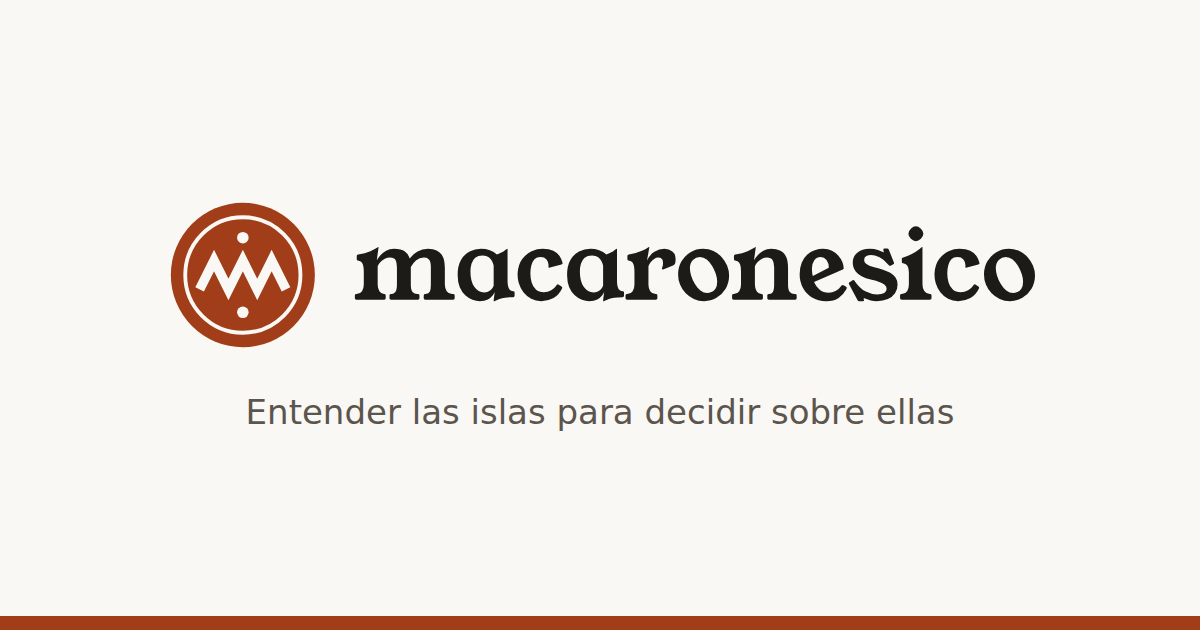
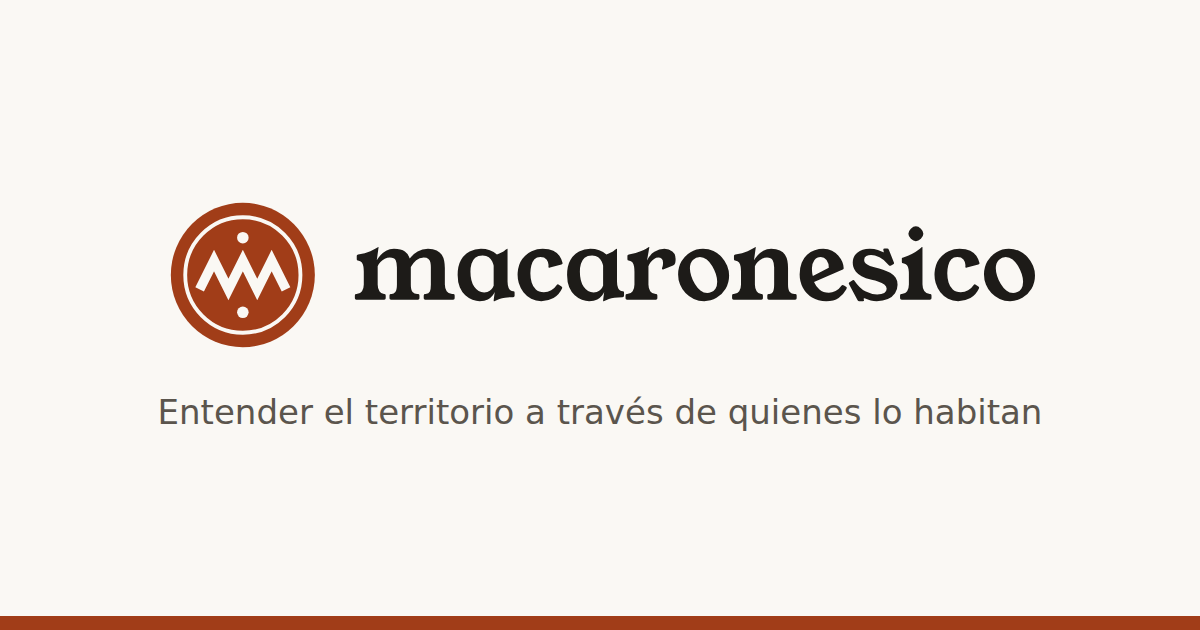
Lema: «Entender el territorio a través de quienes lo habitan»
Actualiza lema, descripción, imagen social y guía de identidad.

Claude-Session: https://claude.ai/code/session_01Ggf64gNmXtFu778w1fZrKY

Changed region(s): [[0.1233, 0.6333, 0.8633, 0.6937]]

diff --git a/src/lib/sitio.ts b/src/lib/sitio.ts
@@ -1,8 +1,8 @@
 export const SITIO = {
   nombre: 'macaronesico',
-  lema: 'Entender las islas para decidir sobre ellas',
+  lema: 'Entender el territorio a través de quienes lo habitan',
   descripcion:
-    'Revista de análisis sobre Canarias y la Macaronesia: derechos, sostenibilidad y humanidad contados con datos, contexto y una mirada creativa.',
+    'Revista sobre Canarias y la Macaronesia que explica el territorio a través de la vida de quienes lo habitan: derechos, sostenibilidad y humanidad.',
   url: 'https://macaronesico.com',
   idioma: 'es',
   repositorio: 'https://github.com/GofioDesign/macaronesico',

diff --git a/docs/identidad.md b/docs/identidad.md
@@ -31,5 +31,5 @@ cargar tipografías externas.
 - Por debajo de 24 px de alto, usar solo el favicon simplificado.
 - No cambiar las proporciones, no añadir sombras ni degradados, no girar el
   zigzag.
-- Lema: «Entender las islas para decidir sobre ellas». La línea editorial
+- Lema: «Entender el territorio a través de quienes lo habitan». La línea editorial
   completa está en el documento «Línea editorial de macaronesico».
